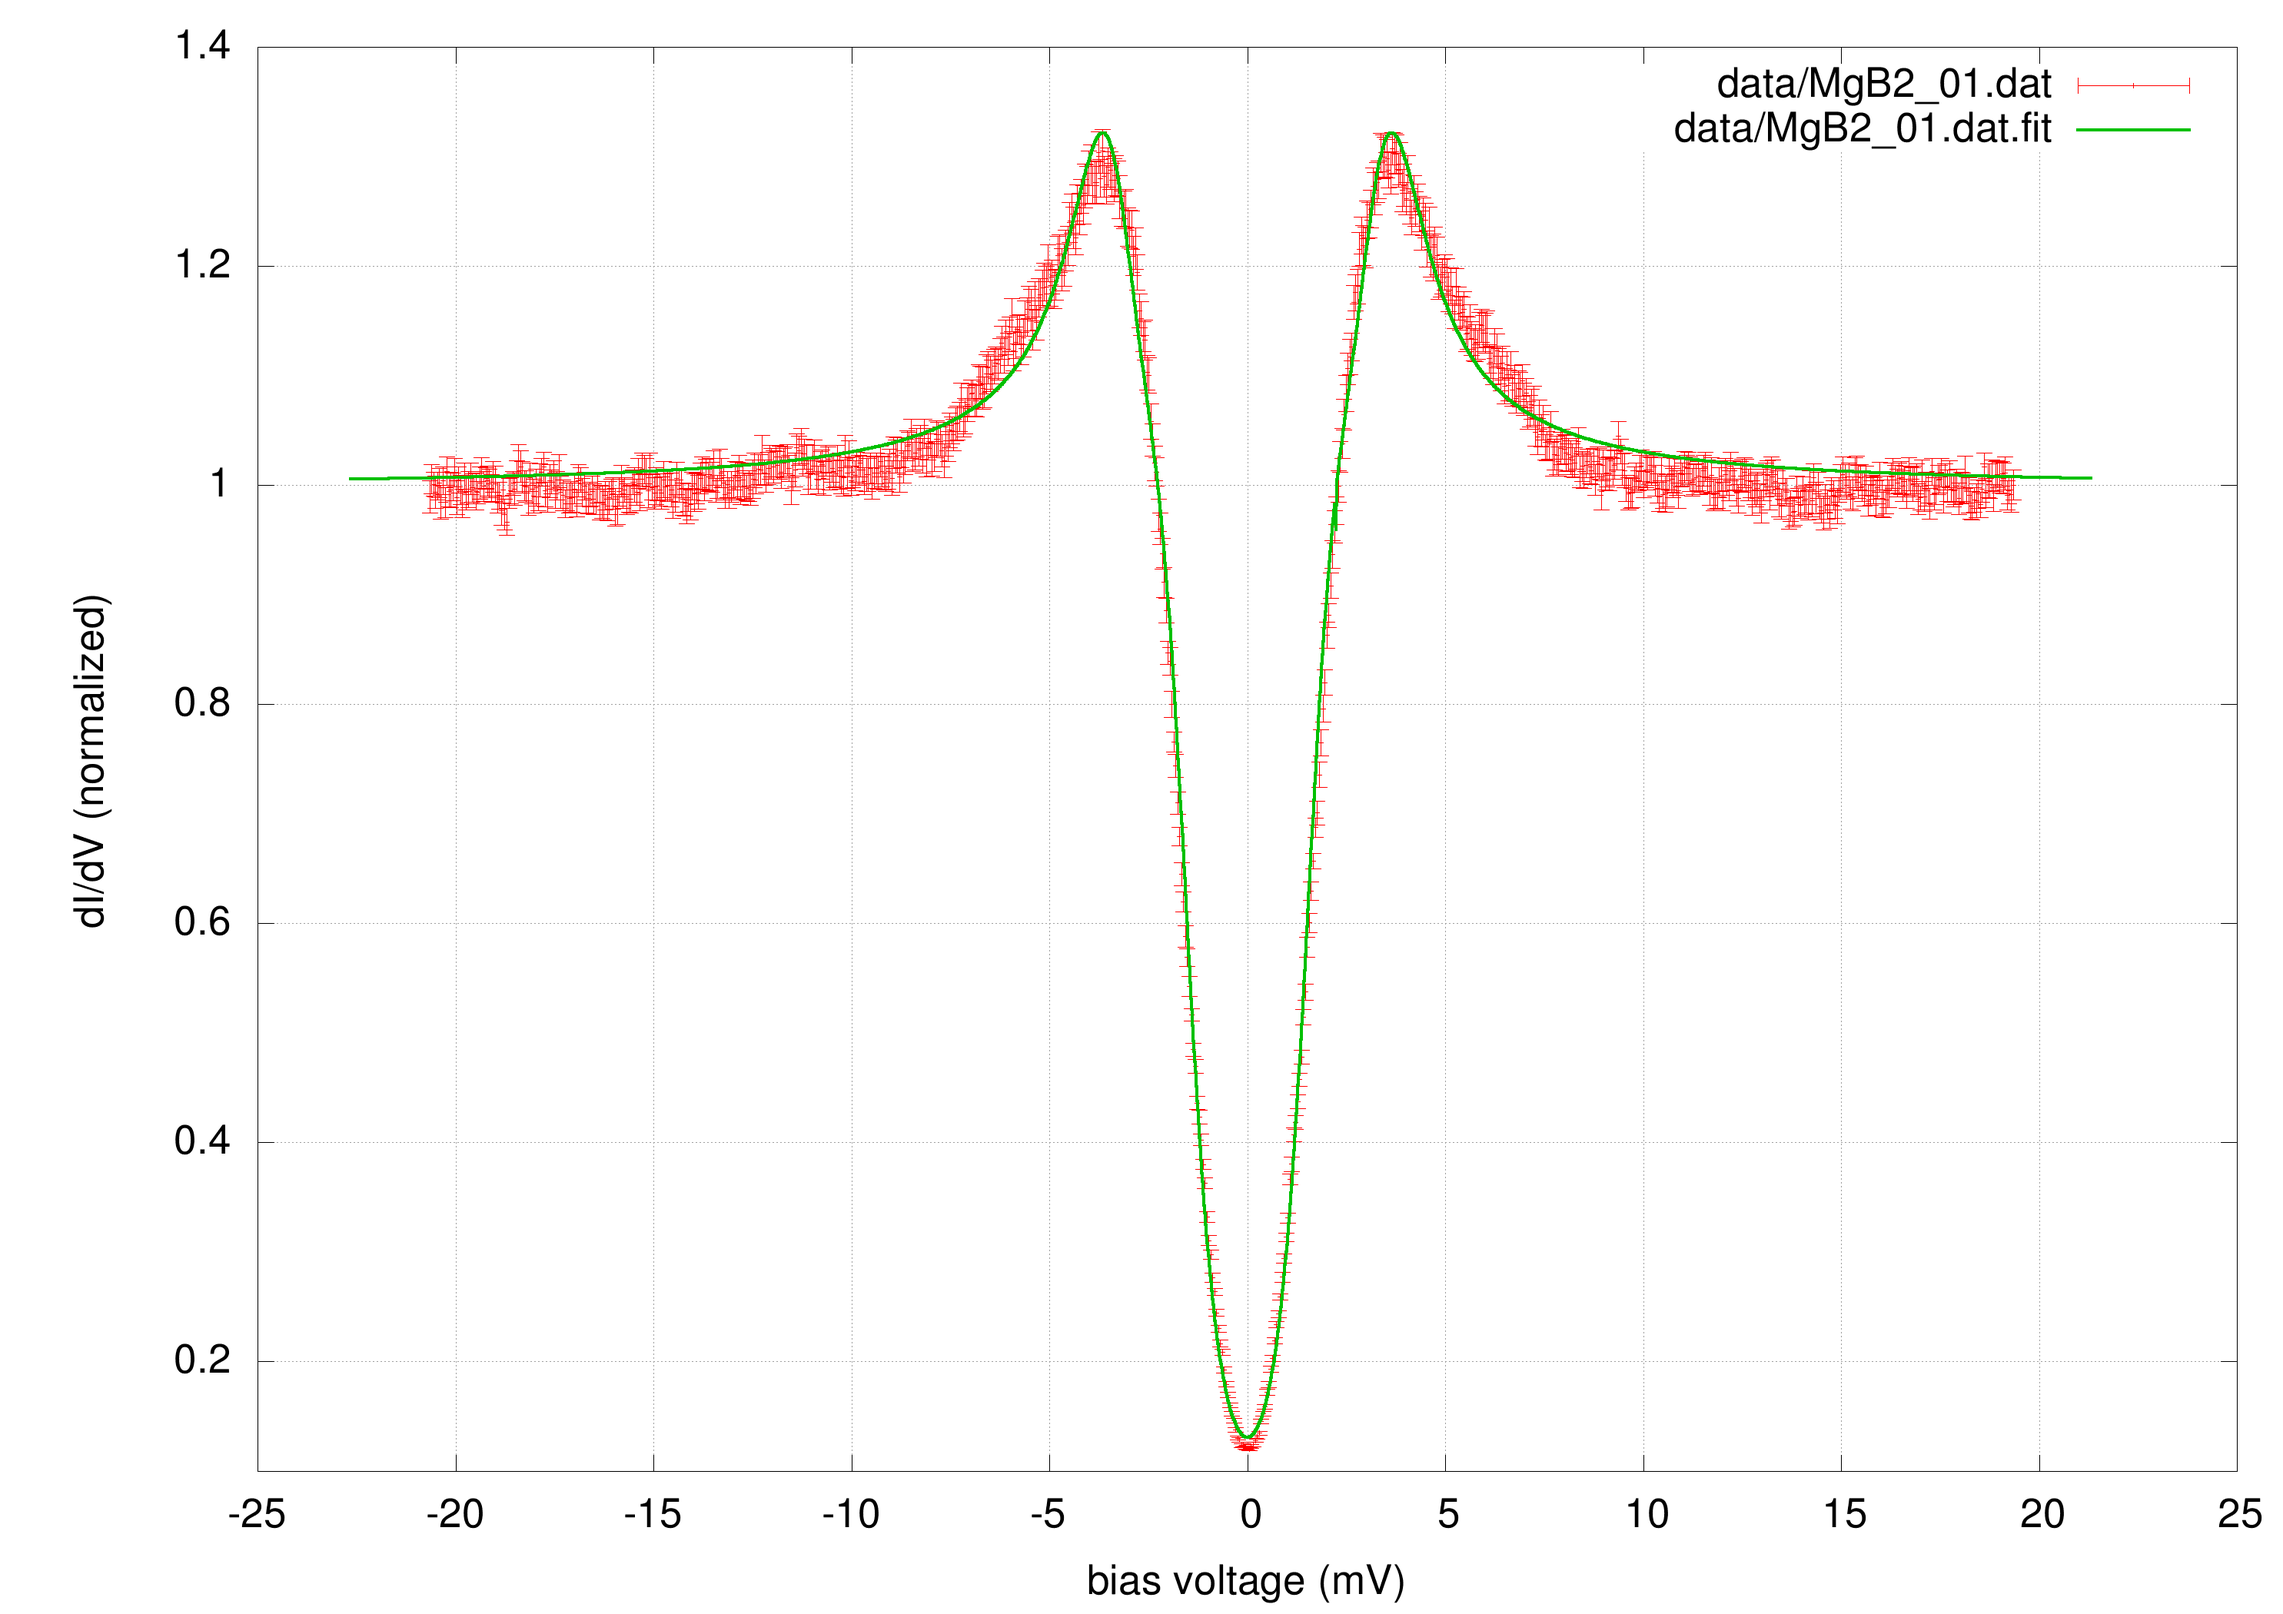
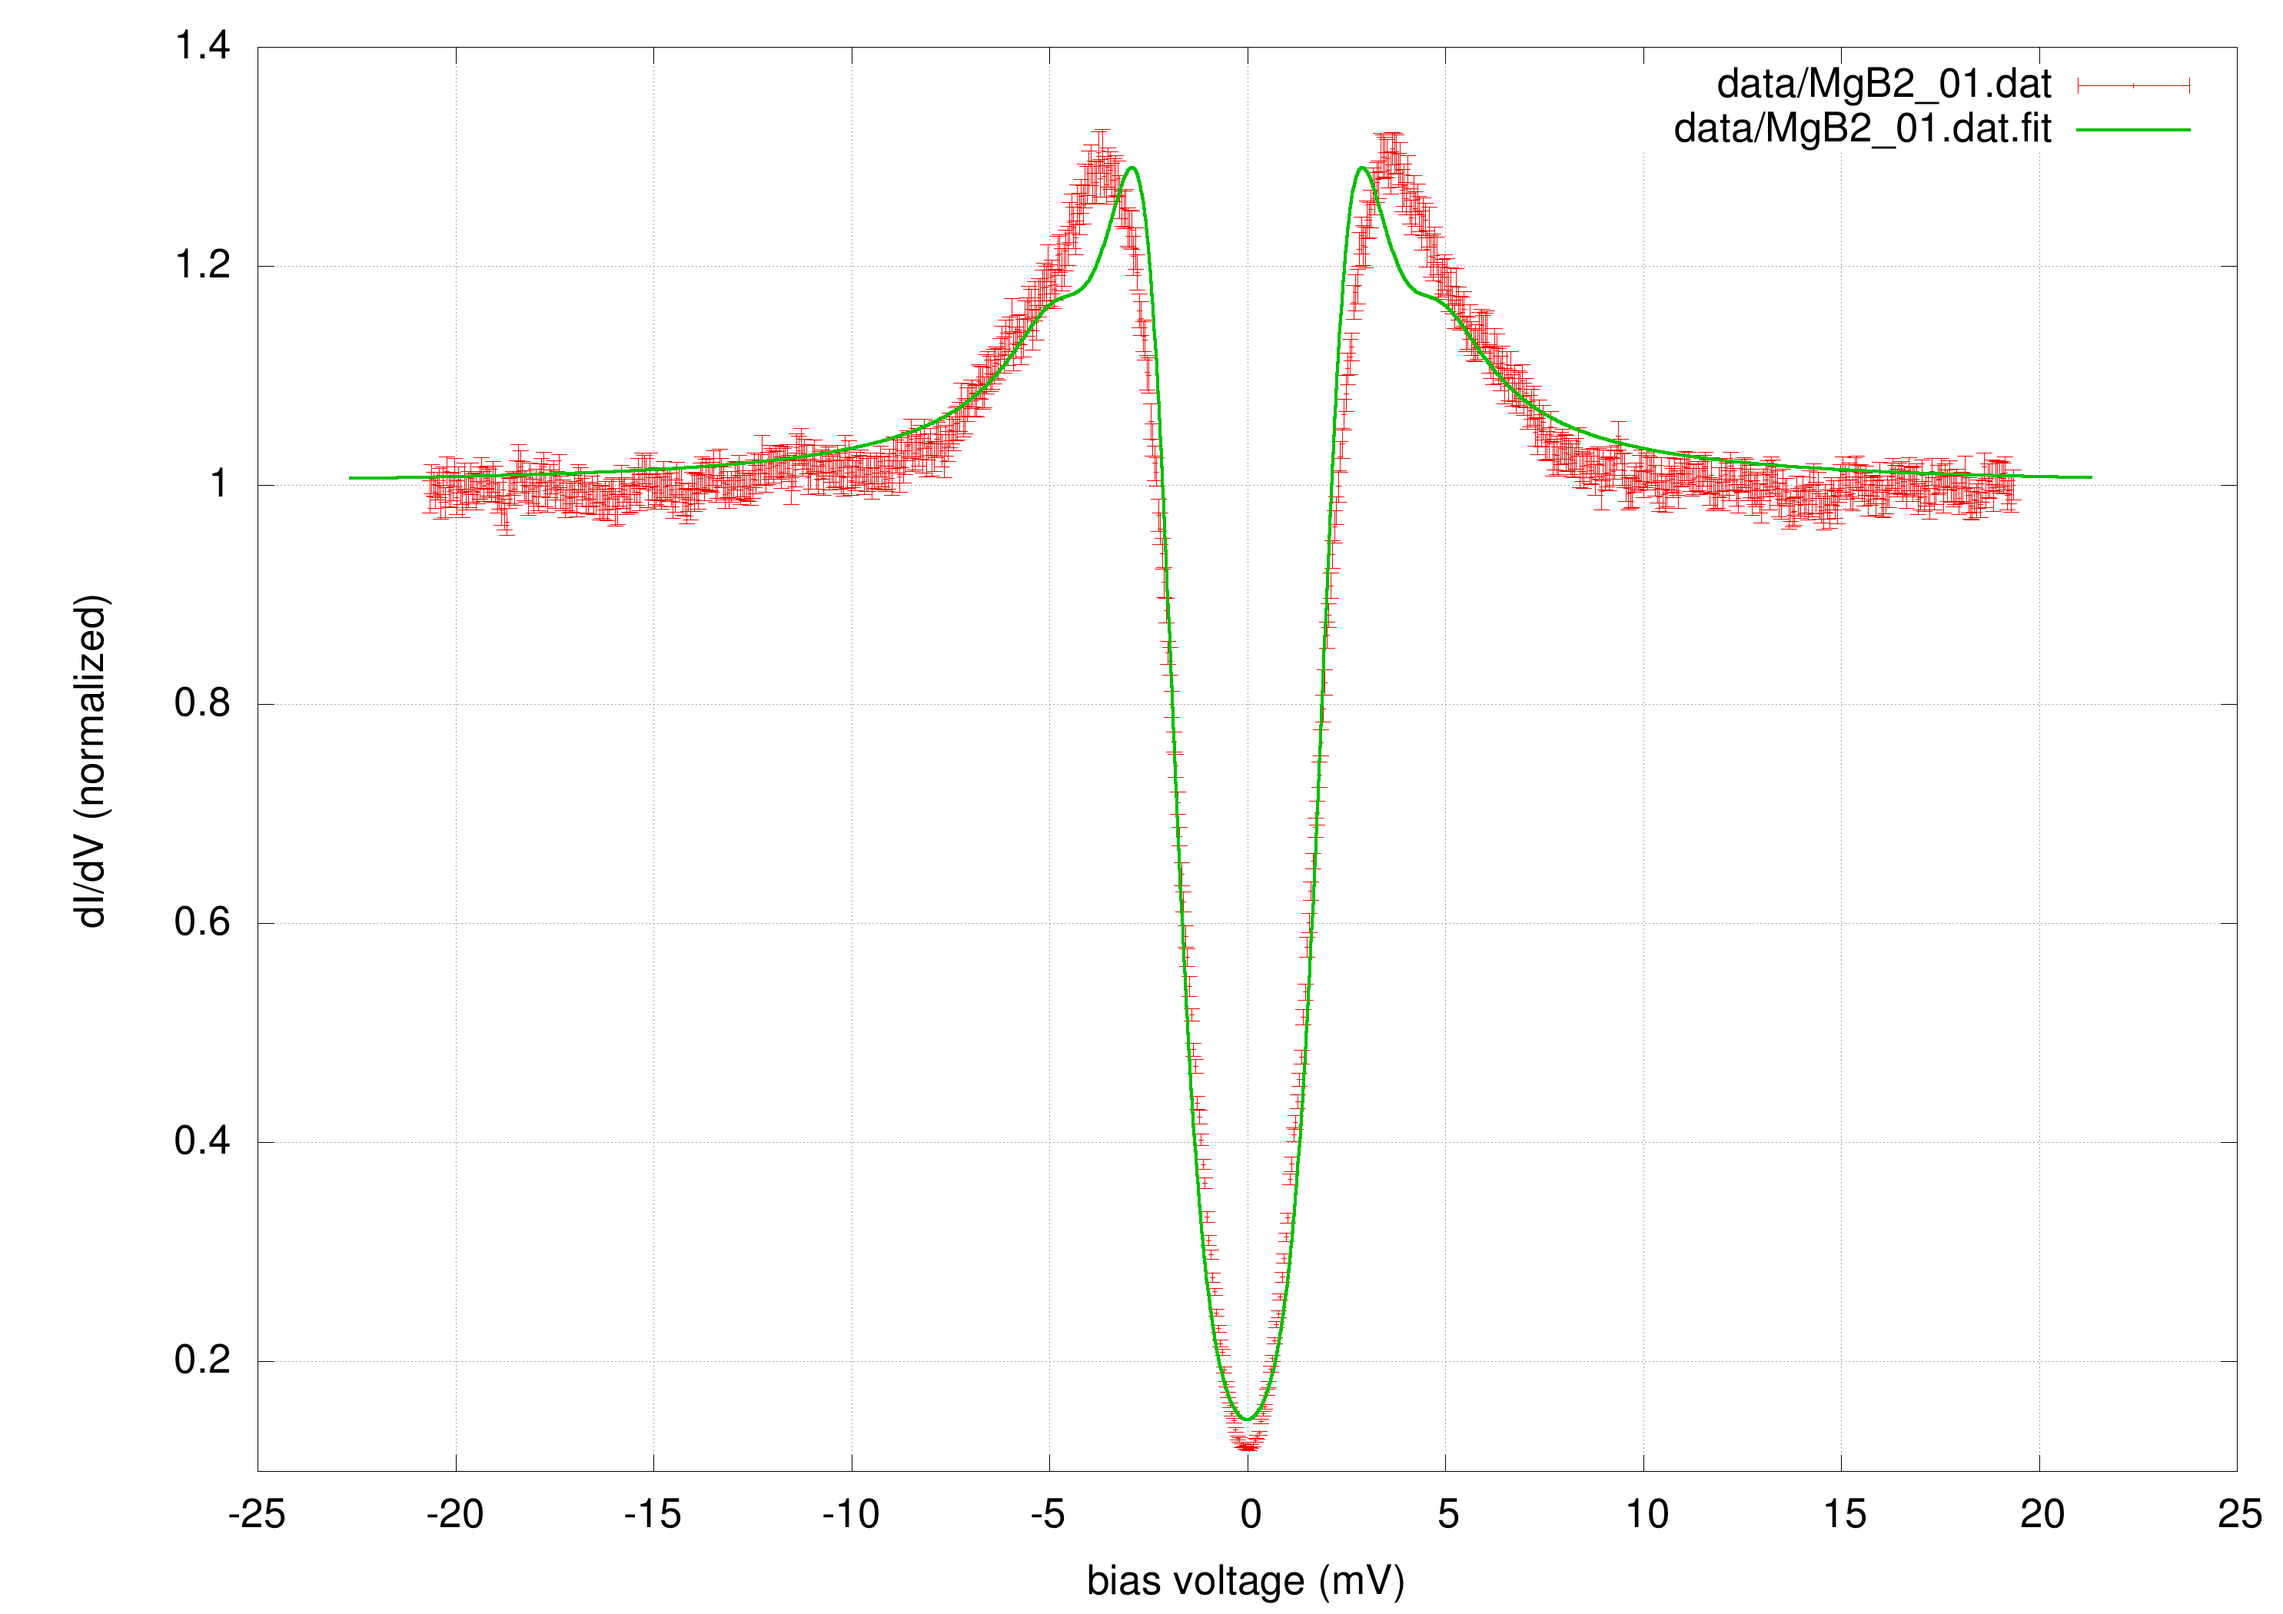
variuos fixes

diff --git a/src/fit.c b/src/fit.c
@@ -56,7 +56,7 @@ residuals_vector_f(const gsl_vector * params, void * data, gsl_vector * f)
         /* might be Vi=-HUGE_VAL and/or Vf=HUGE_VAL for "unlimited" */
       if (X[i]<Vi || X[i]>Vf) continue; 
       
-      theory = Gin_doubleDeltaGamma(X[i], Gamma, Delta1, Delta2, alpha1, T0);
+      theory = Gin_doubleDeltaGamma(X[i], Gamma1, Gamma2, Delta1, Delta2, alpha1, T0);
       experiment = Y[i];
       residual = (theory - experiment)/sigmaY[i];
       if (!constraints(
@@ -184,7 +184,7 @@ simplex(
         break;
       
       size = gsl_multimin_fminimizer_size (s);
-      status = gsl_multimin_test_size (size, 1e-4);
+      status = gsl_multimin_test_size (size, MULTIMIN_TEST_SIZE);
       
       if (status == GSL_SUCCESS)
         {
@@ -196,7 +196,7 @@ simplex(
       * Delta2_best = gsl_vector_get (s->x, 3);
       * alpha1_best = gsl_vector_get (s->x, 4);
             
-      printf ("iter=%3d Gamma1=%+.8f Gamma1=%+.8f Delta1=%+.8f Delta2=%+.8f alpha1=%+.8f chi^2=%011.8f simplex_size=%.8f\n", 
+      printf ("iter=%3d Gamma1=%+.8f Gamma2=%+.8f Delta1=%+.8f Delta2=%+.8f alpha1=%+.8f chi^2=%011.8f simplex_size=%.8f\n", 
               (int) iter,
               * Gamma1_best, 
               * Gamma2_best,
@@ -282,7 +282,7 @@ residuals_fdf(const gsl_vector * params,
 void
 print_fit_state (size_t iter, gsl_multifit_fdfsolver * s, size_t DoF)
 {
-  printf ("iter=%4d Gamma1=%+.8f Gamma2=%+.8f Delta1=%+.8f Delta2=%+.8f alpha1=%+.8f"
+  printf ("iter=%3d Gamma1=%+.8f Gamma2=%+.8f Delta1=%+.8f Delta2=%+.8f alpha1=%+.8f"
                " chi^2=%.10f chi^2/DoF=%.10f\n",
                
                (unsigned int) iter,
@@ -360,7 +360,7 @@ fit(struct data * d,
      
       /* if (status) break; */
      
-      status = gsl_multifit_test_delta (s->dx, s->x, 0, 1e-8); 
+      status = gsl_multifit_test_delta (s->dx, s->x, 0, MULTIFIT_TEST_DELTA); 
     }
   while (status == GSL_CONTINUE &&  iter < MAX_FIT_ITER);
   

diff --git a/src/common.h b/src/common.h
@@ -59,9 +59,11 @@
 /* for num. differentiation */
 #define   DSTEPSIZE                 2e-7  
 
-/* (chi squared) minimization algorithms */
-#define   MAX_SIMPLEX_ITER          300 /* Nelder-Mead */
-#define   MAX_FIT_ITER              100 /* Lenvenberg-Marquardt */
+/* (chi squared) minimization algorithms                                      */
+#define   MAX_SIMPLEX_ITER          400   /* Nelder-Mead "Simplex"            */
+#define   MAX_FIT_ITER              100   /* Levenberg-Marquardt "downhill"   */
+#define   MULTIMIN_TEST_SIZE        1e-6  /* Nelder-Mead "Simplex"            */
+#define   MULTIFIT_TEST_DELTA       1e-6  /* Levenberg-Marquardt "downhill"   */
 
 /* Constraints on parameters */
 #define   CONSTRAINT_GAMMA1_MIN     0.00

diff --git a/src/main.c b/src/main.c
@@ -70,7 +70,7 @@ main (void)
 
   double reduced_chi_square;
 
-  gsl_matrix * cov_Gamma_Delta1_Delta2_alpha1 = gsl_matrix_alloc(5,5);
+  gsl_matrix * cov_Gamma1_Gamma2_Delta1_Delta2_alpha1 = gsl_matrix_alloc(5,5);
   
   struct data d;
   
